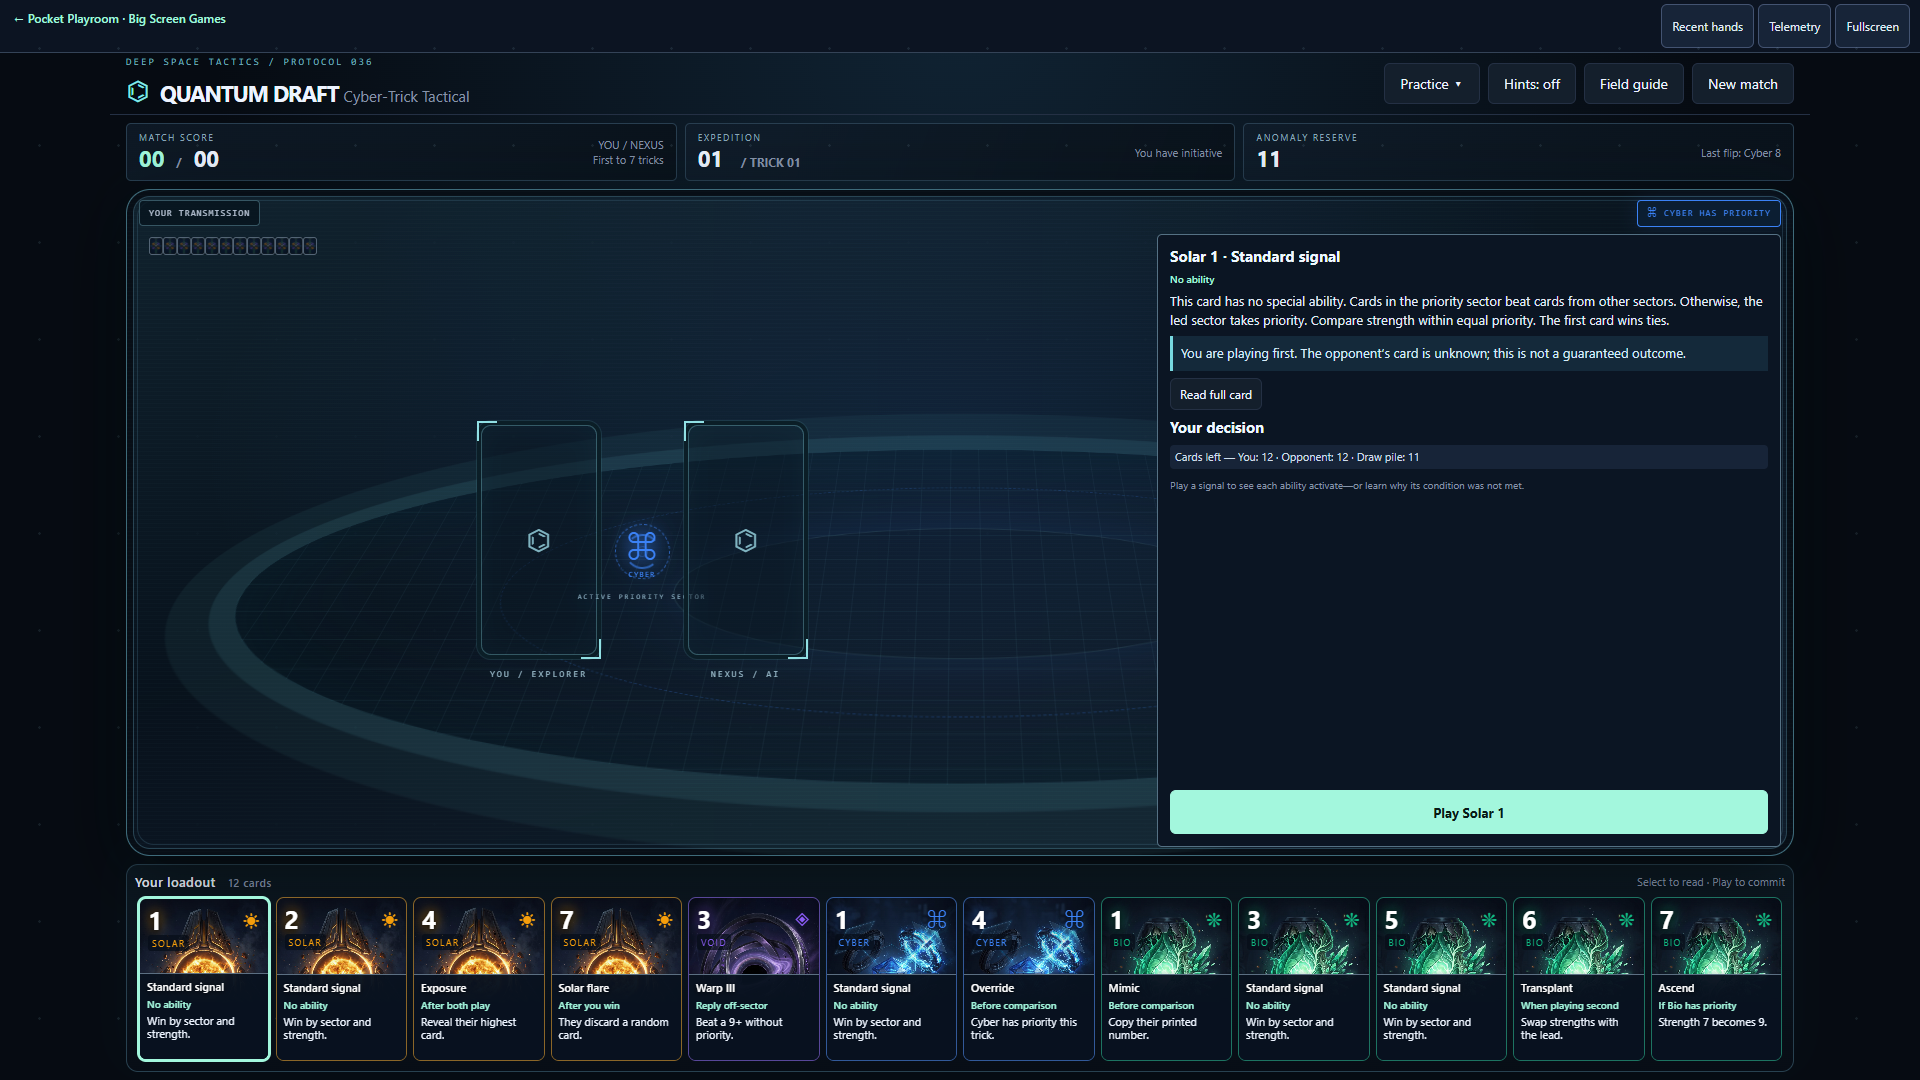
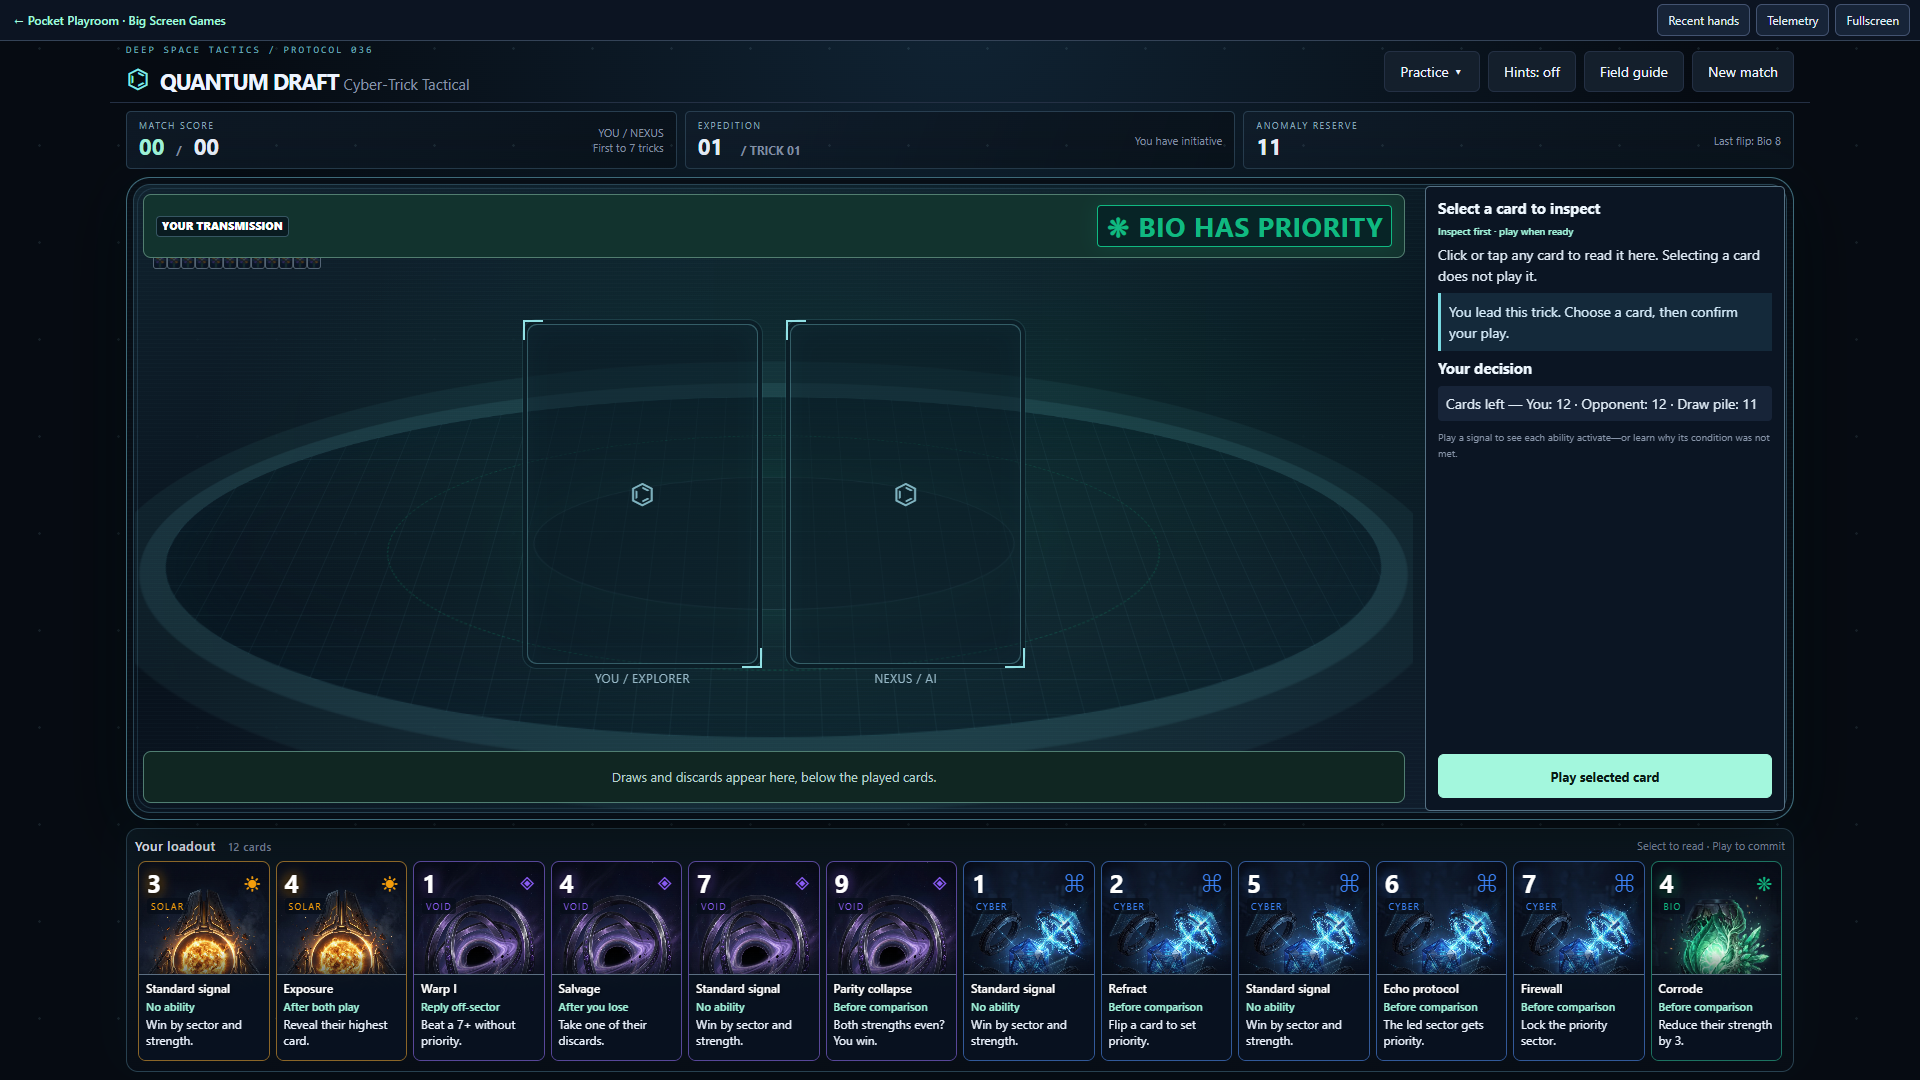
Open Quantum Draft table and clarify match outcomes

diff --git a/games/quantum-draft/learning.css b/games/quantum-draft/learning.css
@@ -182,3 +182,136 @@ body #result-details-close{position:sticky;bottom:-24px;margin-top:16px;min-heig
   body .resolution-controls{position:static}
 }
 @media(prefers-reduced-motion:reduce){body .moving-card{animation:none}body .counts-changed,body .trump-changed,body .hand-discarded,body #hand .drawn-card{animation:none;outline:2px solid #a3f7dd}}
+
+/* Open table: rewards and all decorative effects are confined to the left field. */
+body #playfield{position:relative;isolation:isolate;min-width:0;overflow:hidden;border-radius:12px;background:radial-gradient(ellipse at 50% 65%,#173d4366,transparent 70%)}
+body #reward-lane{position:relative;z-index:5;min-width:0;padding:8px;border:1px solid #507e72;border-radius:8px;background:#102622;color:#e8f5ee}
+body .reward-placeholder{font:13px/1.4 system-ui;color:#b9d1cc;text-align:center;padding:8px}
+body .reward-lane-heading{display:flex;align-items:center;gap:6px;flex-wrap:wrap;margin-bottom:5px;font:13px system-ui}
+body .reward-lane-heading strong{margin-right:auto;font-weight:600}
+body .reward-lane-heading .btn{min-height:28px;padding:3px 8px;font-size:12px;margin:0}
+body #reward-lane .card-change{display:grid;grid-template-columns:minmax(105px,1fr) minmax(180px,1.6fr) minmax(90px,1fr);grid-template-rows:auto auto;align-items:center;gap:3px 12px;padding:0;border:0;background:transparent}
+body #reward-lane .move-cause{grid-column:1;grid-row:1;font-size:12px}
+body #reward-lane .card-change h4{grid-column:1;grid-row:2;font:650 16px/1.3 system-ui;margin:0}
+body #reward-lane .move-path{grid-column:2;grid-row:1/3;grid-template-columns:minmax(0,1fr) 20px minmax(0,1fr);gap:4px}
+body #reward-lane .move-source{font-size:12px;padding:5px}
+body #reward-lane .move-destination{font-size:12px;flex-direction:row;gap:6px;justify-content:center}
+body #reward-lane .moving-card{width:37px;height:48px;padding:3px;flex:none}
+body #reward-lane .moving-card strong{font-size:20px}
+body #reward-lane .moving-card span{font-size:10px}
+body #reward-lane .move-count{grid-column:3;grid-row:1/3;padding:4px;justify-content:center;gap:4px;font-size:11px}
+body #reward-lane .move-count strong{font-size:24px}
+body #reward-lane .move-count>span:first-child{display:none}
+body #reward-lane .move-delta{font-size:12px}
+body #reward-lane .move-explanation{display:none}
+@media(min-width:700px){
+ body #arena{grid-template-columns:minmax(0,1fr) clamp(280px,30%,360px);grid-template-rows:minmax(0,1fr);gap:12px;padding:8px}
+ body #arena #playfield{grid-area:1/1;display:grid;grid-template-rows:auto minmax(0,1fr) auto;gap:8px;padding:8px;min-height:0;align-self:stretch;height:100%}
+ body #arena #learning-panel{grid-area:1/2;margin:0;min-height:0}
+ body #playfield .arena-head{position:relative;inset:auto;grid-area:1/1;height:auto;width:100%;display:flex;align-items:center;justify-content:space-between;gap:8px;flex-wrap:wrap;padding:10px 12px;background:#12332e;border:1px solid #527e70;border-radius:8px;z-index:4}
+ body #playfield #phase{font:11px/1.3 system-ui;padding:3px 5px;letter-spacing:.5px}
+ body #playfield #trumpBadge{font:700 clamp(18px,2vw,27px)/1.2 system-ui;padding:4px 8px;letter-spacing:.4px;white-space:normal;text-align:center}
+ body #playfield .duel{grid-area:2/1;align-self:center;justify-self:center;margin:0;gap:32px;min-width:0}
+ body #playfield .holo-reactor{display:none}
+ body #playfield .slot,body #playfield .slot .card{width:var(--played-width,180px);min-width:0;height:var(--played-height,260px)}
+ body #playfield .slot .card{padding:10px}
+ body #playfield .slot .rank{font-size:clamp(30px,3.2vw,48px)}
+ body #playfield .slot .card-top{height:34px;min-height:34px}
+ body #playfield .slot .sector{font:12px system-ui;margin-top:5px;padding:2px 4px}
+ body #playfield .slot .card-copy{min-height:100px;padding:10px;gap:5px}
+ body #playfield .slot .card-name{display:block;font:650 16px/1.2 system-ui}
+ body #playfield .slot .card-effect{display:block;font:14px/1.35 system-ui}
+ body #playfield .slot .ability-timing{font:650 11px/1.3 system-ui}
+ body #playfield .slot .effective,body #playfield .slot .silence-tag{top:58px;font:700 12px system-ui;left:8px}
+ body #playfield .slot-label{margin-top:7px;font:12px/1.2 system-ui;letter-spacing:.4px}
+ body #playfield #reward-lane{grid-area:3/1;align-self:end}
+ body #playfield #backs{position:absolute;top:65px;left:18px;width:auto;max-width:40%;height:18px;margin:0;z-index:1}
+ body #playfield .table-projection{left:3%;width:94%;top:24%;height:65%;z-index:-1}
+ body #playfield #particles{inset:0;z-index:2}
+ body #playfield .capture-beam{left:50%;top:50%}
+ body #playfield[data-compact="medium"] .slot .card-copy{min-height:78px;padding:7px}
+ body #playfield[data-compact="medium"] .slot .card-name{font-size:13px}
+ body #playfield[data-compact="medium"] .slot .card-effect{font-size:12px}
+ body #playfield[data-compact="medium"] .slot .rank{font-size:30px}
+ body #playfield[data-compact="small"] .slot .card-copy{min-height:26px;padding:5px}
+ body #playfield[data-compact="small"] .slot .card-effect,body #playfield[data-compact="small"] .slot .ability-timing{display:none}
+ body #playfield[data-compact="small"] .slot .card-name{font-size:11px}
+ body #playfield[data-compact="small"] .slot .card-top{height:24px;min-height:24px}
+ body #playfield[data-compact="small"] .slot .rank{font-size:26px}
+ body #playfield[data-compact="small"] .slot .sector{font-size:10px;margin:0}
+ body #playfield[data-compact="small"] .slot .effective,body #playfield[data-compact="small"] .slot .silence-tag{top:29px;font-size:9px}
+}
+@media(min-width:700px) and (max-width:1100px){
+ body #reward-lane .card-change{grid-template-columns:1fr 1.7fr;gap:2px 7px}
+ body #reward-lane .move-count{grid-column:1;grid-row:3;padding:2px;justify-content:start}
+ body #reward-lane .move-path{grid-column:2;grid-row:1/4}
+ body #reward-lane .move-count strong{font-size:20px}
+ body #reward-lane .move-destination{flex-direction:column;gap:2px}
+ body #reward-lane .move-source,body #reward-lane .move-destination{font-size:11px}
+ body #playfield .duel{gap:18px}
+}
+@media(min-width:700px) and (max-height:700px){
+ body[data-playroom-game="quantum-draft"]>.shell{grid-template-rows:40px minmax(0,1fr) 180px}
+ body #learning-hand #hand{height:148px}
+ body #learning-hand #hand .card{height:138px;min-height:138px}
+ body #playfield .arena-head{padding:4px 6px;gap:4px}
+ body #playfield #trumpBadge{font-size:18px;padding:2px 4px}
+ body #playfield #phase{font-size:10px}
+ body #playfield #backs{display:none}
+ body #playfield #reward-lane{padding:5px}
+ body .reward-lane-heading{margin-bottom:3px;font-size:12px}
+ body #reward-lane .card-change h4{font-size:13px}
+ body #reward-lane .move-path{gap:2px}
+ body #reward-lane .move-source{padding:2px}
+ body #reward-lane .moving-card{width:28px;height:36px;padding:2px}
+ body #reward-lane .moving-card strong{font-size:15px}
+ body #reward-lane .moving-card span{font-size:9px}
+ body #reward-lane .move-count strong{font-size:19px}
+}
+@media(max-width:699px){
+ body #playfield{display:flex;flex-direction:column;gap:14px;padding:10px;width:100%}
+ body #playfield .arena-head{position:relative;inset:auto;width:100%;height:auto;flex-wrap:wrap}
+ body #playfield #trumpBadge{font:700 18px/1.3 system-ui}
+ body #playfield #reward-lane{width:100%}
+ body #reward-lane .card-change{display:flex;flex-direction:column;align-items:stretch}
+ body #reward-lane .move-count>span:first-child{display:block}
+ body #reward-lane .move-destination{flex-direction:column}
+}
+
+@media(min-width:700px) and (max-height:600px){
+ body #arena #playfield{grid-template-columns:minmax(0,1fr) minmax(0,1fr);grid-template-rows:auto minmax(0,1fr)}
+ body #playfield .arena-head{grid-area:1/1/2/3}
+ body #playfield #reward-lane{grid-area:2/2;align-self:center}
+ body #playfield .duel{grid-area:2/1;gap:8px}
+ body #playfield .slot,body #playfield .slot .card{width:min(var(--played-width),14vw)}
+ body #reward-lane .card-change{grid-template-columns:1fr 1fr;gap:2px}
+ body #reward-lane .move-path{grid-column:2;grid-row:1/4}
+ body #reward-lane .move-count{grid-column:1;grid-row:3}
+ body #reward-lane .move-destination{flex-direction:row}
+ body #reward-lane .move-source{font-size:10px}
+ body #reward-lane .move-count strong{font-size:17px}
+}
+/* Outcomes distinguish a single trick, an exhausted hand, and the entire match. */
+body #playfield[data-outcome="won"] .arena-head{border-color:#9ef8d4;background:#174b3b;box-shadow:inset 4px 0 #9ef8d4}
+body #playfield[data-outcome="lost"] .arena-head{border-color:#ffc0a3;background:#4a2b30;box-shadow:inset 4px 0 #ffc0a3}
+body #playfield[data-outcome] #phase{font:800 clamp(16px,1.7vw,25px)/1.15 system-ui;letter-spacing:0;color:#fff;white-space:normal}
+body #playfield[data-outcome=""] #phase{font-size:11px}
+body #match-result{width:min(640px,calc(100vw - 32px));max-height:calc(100dvh - 32px);overflow:auto;padding:clamp(22px,4vw,48px);border:2px solid #a3f7dd;border-radius:20px;background:radial-gradient(ellipse at top,#205748,#0b1924 75%);color:#fff;text-align:center;box-shadow:0 0 90px #80ffcc44}
+body #match-result[data-outcome="lost"]{border-color:#ffbd9d;background:radial-gradient(ellipse at top,#633b43,#0b1924 75%);box-shadow:0 0 90px #ffad8844}
+body #match-result::backdrop{background:#020914dc;backdrop-filter:blur(5px)}
+body #match-result .match-label{font:700 15px system-ui;letter-spacing:3px;color:#d2e5e5}
+body #match-result h2{font:850 clamp(32px,5vw,54px)/1.1 system-ui;margin:20px 0}
+body #match-result .match-score{font:800 clamp(25px,4vw,40px)/1.3 system-ui;margin:24px 0}
+body #match-result p{font-family:system-ui;line-height:1.5}
+body #match-result .match-actions{display:flex;justify-content:center;gap:12px;flex-wrap:wrap;margin-top:28px}
+body #match-result .btn{font:700 16px system-ui;min-height:48px}
+@media(min-width:700px) and (max-height:600px){body #playfield[data-outcome]:not([data-outcome=""]) #phase{font-size:15px}}
+/* Give the loadout a little more height when the desktop field has room. */
+@media(min-width:700px) and (min-height:701px) and (min-aspect-ratio:1/1){
+ body[data-playroom-game="quantum-draft"]>.shell{grid-template-rows:58px minmax(0,1fr) 244px}
+ body #learning-hand #hand{height:210px}
+ body #learning-hand #hand .card{height:200px;min-height:200px}
+ body #learning-hand .card-name{font-size:12px}
+ body #learning-hand .ability-timing{font-size:11px}
+ body #learning-hand .card-effect{font-size:12px;line-height:1.3}
+}

diff --git a/games/quantum-draft/learning.js b/games/quantum-draft/learning.js
@@ -58,6 +58,46 @@
   const node=(tag,cls,text)=>{const e=document.createElement(tag);e.className=cls||'';if(text)e.textContent=text;return e;};
   const panel=document.querySelector('.effects-panel');
   panel.id='learning-panel';
+  // A separate playfield contains all reward/celebration layers, outside the text panel.
+  const playfield=node('section');playfield.id='playfield';playfield.setAttribute('aria-label','Open table');
+  for(const child of [...$('arena').children])if(child!==panel)playfield.append(child);
+  $('arena').prepend(playfield);
+  const rewardLane=node('section');rewardLane.id='reward-lane';rewardLane.setAttribute('aria-label','Visible card rewards');rewardLane.setAttribute('aria-live','polite');playfield.append(rewardLane);
+  let laneIndex=0;
+  function fitPlayedCards(){
+    if(!matchMedia('(min-width:700px)').matches)return;
+    const beside=matchMedia('(max-height:600px)').matches;
+    const room=playfield.clientHeight-playfield.querySelector('.arena-head').offsetHeight-(beside?0:rewardLane.offsetHeight)-58;
+    const height=Math.max(76,Math.min(340,room,(playfield.clientWidth-50)/1.36));
+    const width=Math.min((playfield.clientWidth-50)/2,Math.max(160,height*.68));
+    playfield.style.setProperty('--played-height',height+'px');playfield.style.setProperty('--played-width',width+'px');
+    playfield.dataset.compact=height<150?'small':height<210?'medium':'large';
+  }
+  new ResizeObserver(fitPlayedCards).observe(playfield);
+  const matchDialog=node('dialog');matchDialog.id='match-result';matchDialog.setAttribute('aria-labelledby','match-result-title');
+  const matchLabel=node('p','match-label','MATCH COMPLETE'),matchTitle=node('h2');matchTitle.id='match-result-title';
+  const matchScore=node('p','match-score'),matchMessage=node('p'),matchActions=node('div','match-actions');
+  const matchReview=node('button','btn','Review final trick'),matchAgain=node('button','btn primary','Play a new match');
+  matchActions.append(matchReview,matchAgain);matchDialog.append(matchLabel,matchTitle,matchScore,matchMessage,matchActions);document.body.append(matchDialog);
+  let announcedMatch=null;
+  matchReview.onclick=()=>matchDialog.close();matchAgain.onclick=()=>{matchDialog.close();fresh();};
+  function renderOutcome(){
+    const settled=!!g.result&&['result','over'].includes(g.phase),won=g.result?.winner==='p',over=g.phase==='over'&&modeName!=='learn';
+    const exhausted=settled&&(!g.hands.p.length||!g.hands.a.length)&&modeName!=='learn'&&!over;
+    playfield.dataset.outcome=settled?(won?'won':'lost'):'';
+    if(settled){
+      const phase=$('phase');phase.textContent=over?(won?'MATCH WON':'MATCH LOST'):(won?'YOU WON THE TRICK':'NEXUS WON THE TRICK');
+      phase.setAttribute('role','status');phase.setAttribute('aria-live','polite');
+      phase.title=`Match score: you ${g.score.p}, Nexus ${g.score.a}.`;
+      if(exhausted){phase.textContent+=' · HAND COMPLETE';$('nextBtn').textContent='Deal next hand →';}
+      if(over){
+        matchDialog.dataset.outcome=won?'won':'lost';matchTitle.textContent=won?'You won the match!':'Nexus won the match';
+        matchScore.textContent=`You ${g.score.p} — ${g.score.a} Nexus`;
+        matchMessage.textContent=won?'You reached seven tricks and secured the anomaly.':'Nexus reached seven tricks and secured the anomaly. Try a new match to challenge Nexus again.';
+        if(announcedMatch!==g.result){announcedMatch=g.result;matchDialog.showModal();}
+      }
+    }else{if(matchDialog.open)matchDialog.close();announcedMatch=null;}
+  }
   const lessonBar=node('div','lesson-banner');lessonBar.id='lesson-banner';panel.prepend(lessonBar);
   const inspect=node('section','inspect-panel');inspect.id='inspect-panel';inspect.setAttribute('aria-label','Selected card');
   const inspectTitle=node('h3','','Select a card to inspect');inspectTitle.id='inspect-title';
@@ -160,6 +200,24 @@
     if(expanded)section.classList.add('expanded-movement');
     return section;
   }
+  function renderRewardLane(){
+    const changes=moves.filter(m=>m.kind!=='play'),show=changes.length&&(g.result||frame?.kind==='rewards');
+    rewardLane.replaceChildren();
+    if(!show){rewardLane.append(node('div','reward-placeholder',g.phase==='input'?'Draws and discards appear here, below the played cards.':'No cards gained or discarded by abilities.'));return;}
+    laneIndex=Math.min(laneIndex,changes.length-1);
+    const heading=node('div','reward-lane-heading'),label=node('strong','',changes.length>1?`Card change ${laneIndex+1} of ${changes.length}`:'Card reward / effect');
+    const replay=node('button','btn','Replay');replay.type='button';replay.onclick=()=>{const tile=rewardLane.querySelector('.moving-card');tile.style.animation='none';void tile.offsetWidth;tile.style.animation='';};heading.append(label,replay);
+    if(changes.length>1){for(const [text,delta] of [['←',-1],['→',1]]){const b=node('button','btn',text);b.type='button';b.setAttribute('aria-label',delta<0?'Previous card change':'Next card change');b.disabled=laneIndex+delta<0||laneIndex+delta>=changes.length;b.onclick=()=>{laneIndex+=delta;renderRewardLane();fitPlayedCards();};heading.append(b);}}
+    const summary=movementSummary(),rows=summary.querySelectorAll('.card-change');
+    rewardLane.append(heading,rows[laneIndex]);
+  }
+  function movementNote(){
+    const n=node('div','movement-note');
+    const changes=moves.filter(m=>m.kind!=='play');
+    if(!changes.length)n.append(node('p','','No cards were gained or discarded by abilities.'));
+    for(const m of changes)n.append(node('p','',`${m.cause}: ${m.owner==='p'?'your':'opponent’s'} hand ${m.before} → ${m.after}. See the card movement below the played cards.`));
+    return n;
+  }
   function renderSelection(){
     const c=g.hands.p.find(c=>c.id===selectedId);inspect.hidden=g.phase!=='input';
     for(const e of $('hand').querySelectorAll('button')){const selected=e.dataset.card===selectedId;e.classList.toggle('inspected',selected);e.setAttribute('aria-pressed',String(selected));}
@@ -189,13 +247,14 @@
       stageTitle.textContent=frame.title;
       if(frame.r){for(const p of ['p','a'])$(p==='p'?'playerSlot':'aiSlot').innerHTML=cardHTML(g.plays[p],frame.r.enabled[p]?'':'silenced',frame.r.ranks[p]);$('trumpBadge').textContent=`${LABEL[frame.r.trump]} HAS PRIORITY${frame.r.lock?' / LOCKED':''}`;}
       const root=$('effectLines');root.replaceChildren(...frame.lines.map(t=>node('div','effect-line',t)));
-      if(frame.kind==='rewards')root.replaceChildren(node('div','plain-verdict',explainWinner(frame.r)),movementSummary(),abilityNotes(),effectLog());
+      if(frame.kind==='rewards')root.replaceChildren(node('div','plain-verdict',explainWinner(frame.r)),movementNote(),abilityNotes(),effectLog());
       if(frame.kind==='commit')root.append(movementSummary());
     }else if(g.result){
-      const reason=node('div','plain-verdict',explainWinner(g.result));$('effectLines').replaceChildren(reason,movementSummary(),abilityNotes(),effectLog());
+      const reason=node('div','plain-verdict',explainWinner(g.result));$('effectLines').replaceChildren(reason,movementNote(),abilityNotes(),effectLog());
       if(modeName==='learn')$('effectLines').prepend(node('div','lesson-verdict',passed()?'Lesson complete. Read the result, then continue.':'That choice did not meet the lesson goal. Read the result and try again.'));
     }else if(g.phase==='input'&&latest){$('effectLines').replaceChildren(node('div','last-result',`Last trick: ${latest.winner==='p'?'you won':'Nexus won'}. ${latest.reason}`));}
     $('nextBtn').hidden=!['result','over'].includes(g.phase);$('nextBtn').textContent=modeName==='learn'?(passed()?(lessonIndex===lessons.length-1?'Start Practice →':'Next lesson →'):'Try this lesson again'):g.phase==='over'?'Play again →':'Next trick →';
+    renderOutcome();renderRewardLane();fitPlayedCards();
     expandResult.hidden=!g.result&&frame?.kind!=='rewards';
     if(g.result&&latest)latest.cardMoves=moves.map(m=>({...m,card:{...m.card}}));
     if(modeName==='learn'&&passed()){completed=Math.max(completed,lessonIndex+1);try{localStorage.setItem('quantum-draft:lessons',String(completed));}catch{}}
@@ -215,7 +274,7 @@
     const l=lessons[index];g={history:[],score:{p:0,a:0},round:index+1,trick:0,leader:l.leader,phase:'input',hands:{p:l.p.map(card),a:l.a.map(card)},discards:{p:[],a:[]},deck:['bio3','void5'].filter(id=>![...l.p,...l.a].includes(id)).map(card),captured:[],plays:{},face:card('cyber5'),trump:l.trump,lock:false,result:null};
     $('logs').replaceChildren();begin();
   }
-  fresh=()=>{cancelStage();if(details.open)details.close();if(resultDialog.open)resultDialog.close();selectedId=null;frame=null;if(modeName==='learn')loadLesson(Math.min(completed,lessons.length-1));else original.fresh();};
+  fresh=()=>{cancelStage();if(matchDialog.open)matchDialog.close();announcedMatch=null;if(details.open)details.close();if(resultDialog.open)resultDialog.close();selectedId=null;frame=null;if(modeName==='learn')loadLesson(Math.min(completed,lessons.length-1));else original.fresh();};
   const next=()=>{
     if(!['result','over'].includes(g.phase))return;
     if(modeName==='learn'){
@@ -246,7 +305,7 @@
       const token=epoch;advanceTimer=setTimeout(()=>{advanceTimer=null;if(token!==epoch||g.phase!=='result')return;if(document.hidden||document.querySelector('dialog[open]'))return schedule();next();},6000);
     }
   };
-  globalThis.QDLearning={get mode(){return modeName;},ai,schedule,beginTrick(){moves=[];},cardMove(move){moves.push({...move,card:{...move.card}});},
+  globalThis.QDLearning={get mode(){return modeName;},ai,schedule,beginTrick(){moves=[];laneIndex=0;},cardMove(move){moves.push({...move,card:{...move.card}});},
     async stage(kind,r,before){
       if(kind==='commit')stageNumber=0;
       stageNumber++;if(kind==='commit'){beforeFrame={p:g.hands.p.map(c=>c.id),a:g.hands.a.map(c=>c.id),trump:g.trump};frame={title:'1 · Both cards are now visible',lines:['No ability happens when a card is only selected. Now both cards are committed; their abilities can resolve.']};}
